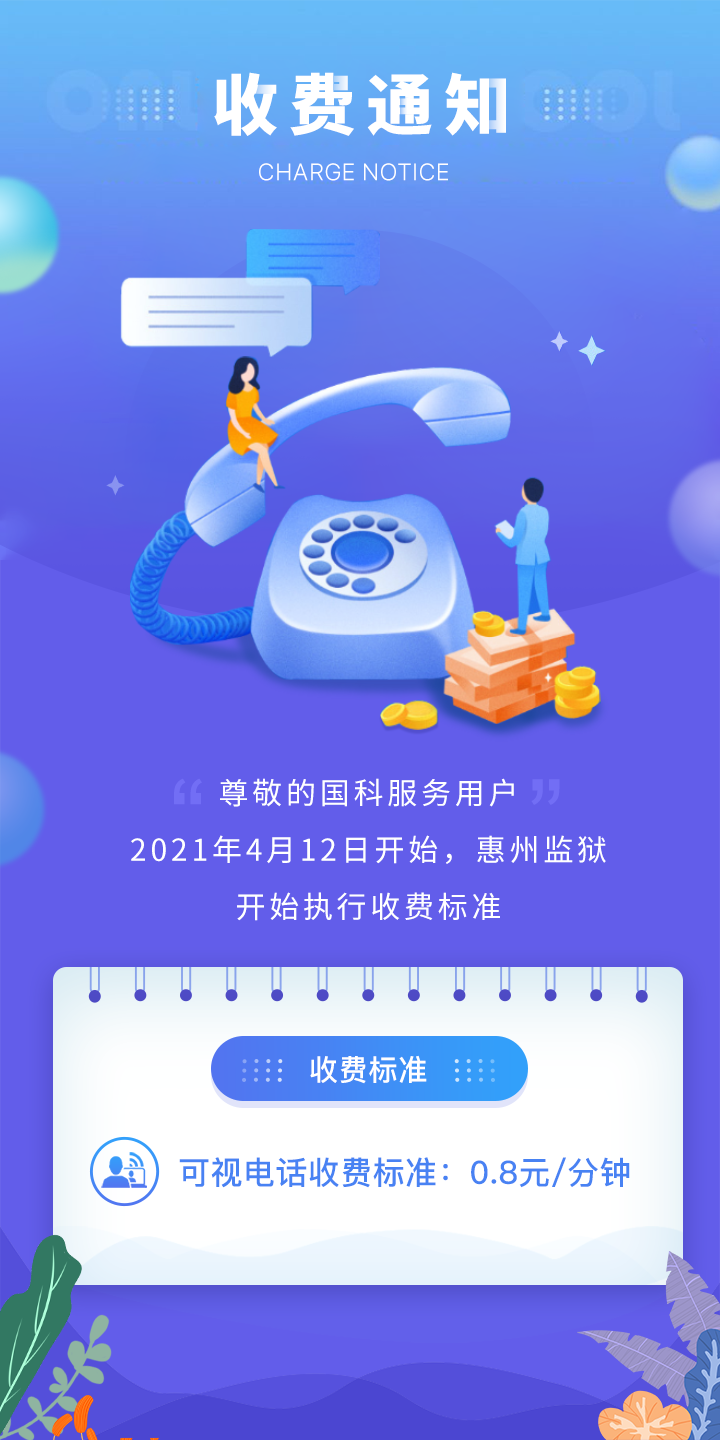
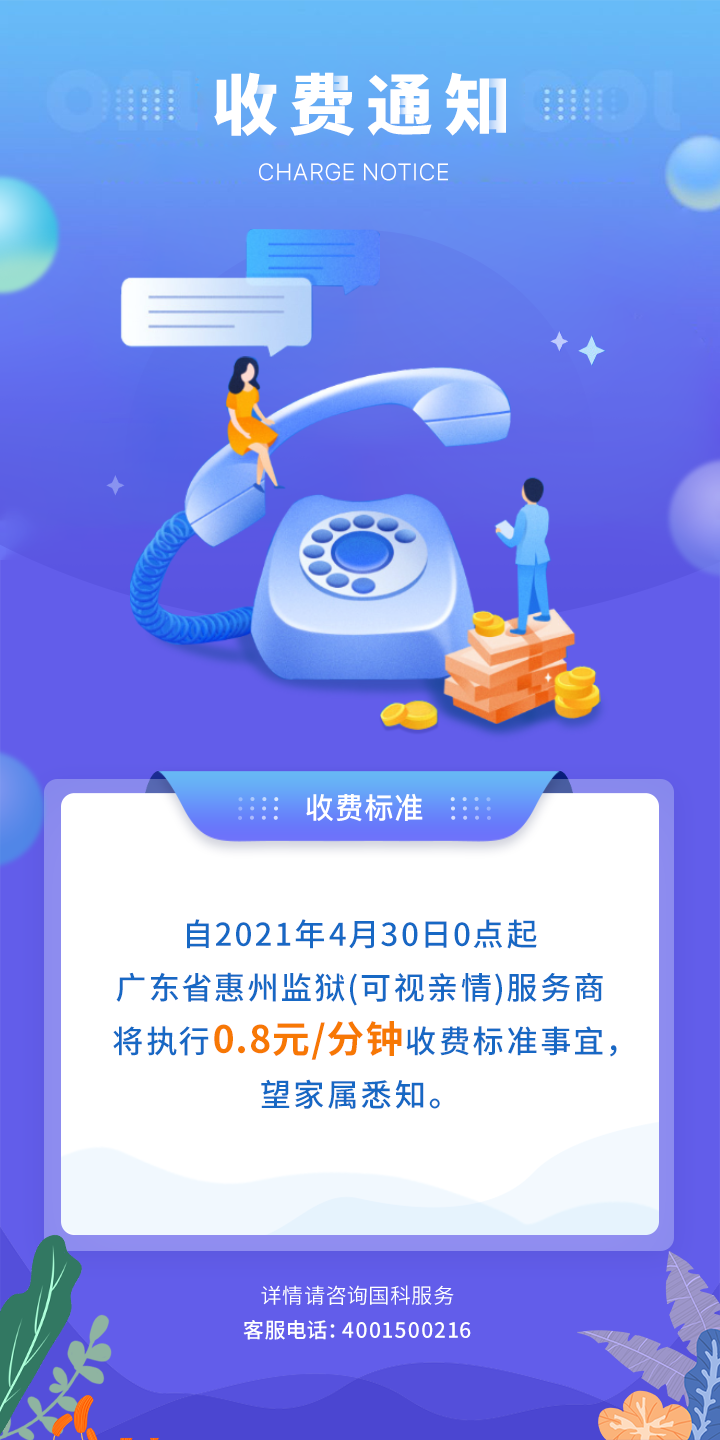
feature: 惠州监狱/茂名监狱 上线广告

Changed region(s): [[0.0611, 0.5312, 0.9472, 0.9375]]

diff --git a/src/app/page/prison/affairs-detail.vue b/src/app/page/prison/affairs-detail.vue
@@ -8,7 +8,7 @@
         </div>
         <div class="affairs-detail-createtime">发布于 {{affairsData.createTime}}</div>
         <div class="affairs-detail-content" v-if="affairsData.videoUrl">
-            <video :src="affairsData.videoUrl" poster="http://qa-ywgk.yuwugongkai.com/static/images/video-cover.png" controls="controls" width="100%"></video></p>
+            <video :src="affairsData.videoUrl" poster="http://qa-ywgk.yuwugongkai.com/static/images/video-cover.png" controls="controls" width="100%" />
         </div>
         <div class="affairs-detail-content" v-html="affairsData.content"></div>
     </section>

diff --git a/src/common/constants/const.js b/src/common/constants/const.js
@@ -18,6 +18,8 @@ import guangdongProvinceZhaoqing from '@/assets/images/guangdong-province-zhaoqi
 
 import guangdongProvinceHuizhou from '@/assets/images/guangdong-province-huizhou.png'
 
+import guangdongProvinceMaoMing from '@/assets/images/guangdong-province-maoming.png'
+
 export const noticeImgSwitchJaild = [
     {
         jaild: 20,
@@ -58,5 +60,9 @@ export const noticeImgSwitchJaild = [
     {
         jaild: 53,
         url: guangdongProvinceZhaoqing
+    },
+    {
+        jaild: 58,
+        url: guangdongProvinceMaoMing
     }
 ]

diff --git a/build/webpack.dev.conf.js b/build/webpack.dev.conf.js
@@ -13,8 +13,6 @@ const result = defaultGateway.v4.sync()
 const HOST = result ? address.ip(result.interface) : '127.0.0.1'
 const PORT = process.env.PORT && Number(process.env.PORT)
 
-console.log(process.env)
-
 const devWebpackConfig = merge(baseWebpackConfig, {
   module: {
     rules: utils.styleLoaders({ sourceMap: config.dev.cssSourceMap, usePostCSS: true })
